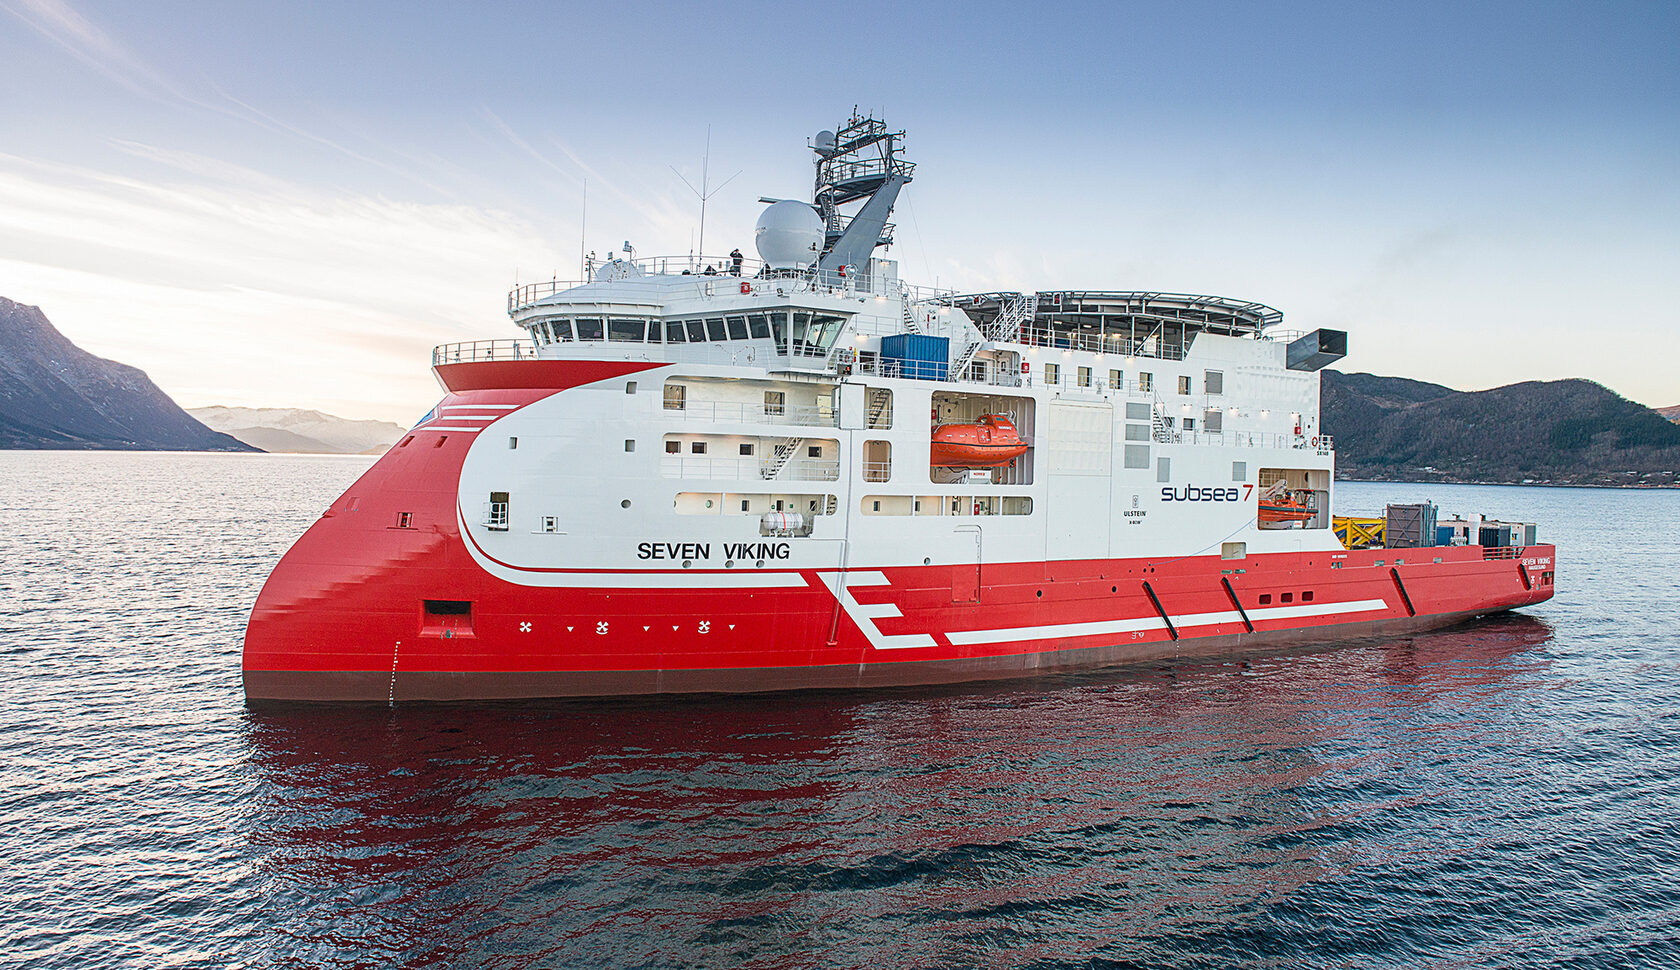
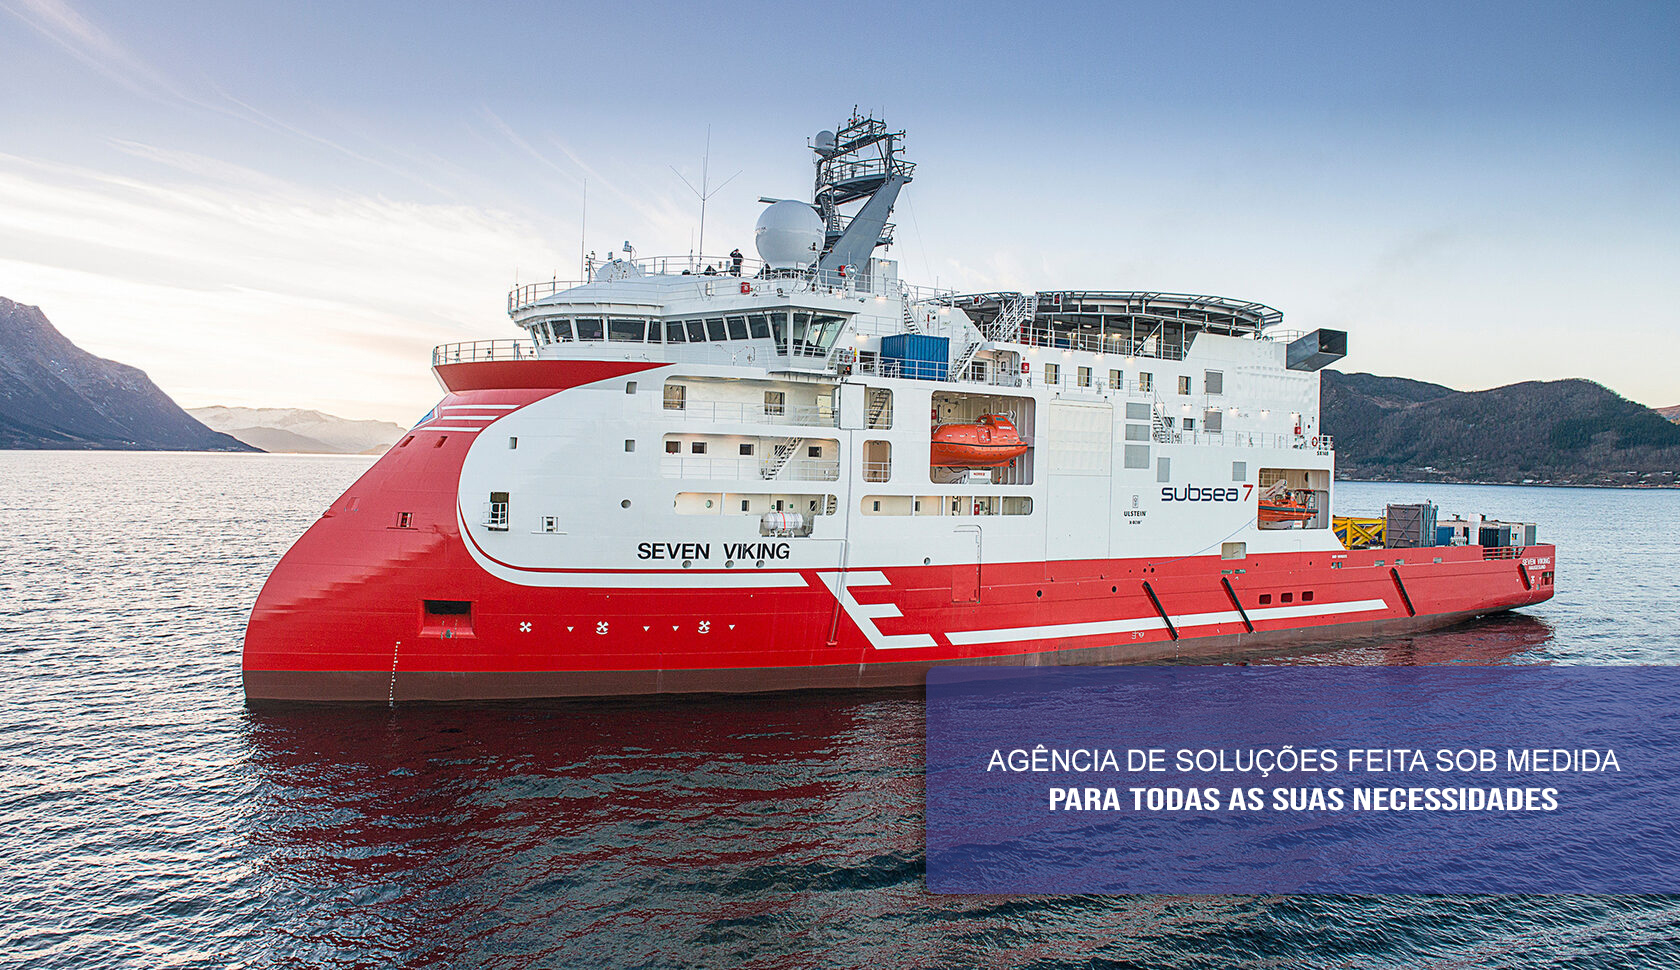
Adicionando Icone Site

Changed region(s): [[0.5262, 0.6804, 1.0, 0.9278]]

diff --git a/style.css b/style.css
@@ -58,20 +58,6 @@ body{
 
 }
 
-.Frase{
-    display: flex;
-    color: white;
-    width: 600px;
-    height: 170px;
-    justify-content: center;
-    align-items: center;
-    opacity: 0.65;
-    position: absolute;
-    right: 0px;
-    bottom: -73px;
-    background-color: #343E8B;
-}
-
 .foto1 img{
     margin-bottom: -4px;
     width: 100%;
@@ -561,9 +547,6 @@ body{
 }
 
 
-
-
-
 @media screen and (max-width: 1000px){
     .Menu{
         justify-content: center;
@@ -572,12 +555,6 @@ body{
 
     .paginas{
         gap: 30px;
-    }
-
-    .Frase{
-        width: 400px;
-        height: 100px;
-        bottom: 130px;
     }
 
     .foto1 img{
@@ -747,9 +724,6 @@ body{
     }
 }
 
-
-
-
 @media screen and (max-width:700px){
     .Topo{
         height: 50px;
@@ -771,17 +745,6 @@ body{
     .paginas a{
         font-size: 18px;
         text-align: center;
-    }
-
-    .Frase{
-        width: 200px;
-        height: 80px;
-        bottom: 230px;
-        text-align: center;
-    }
-
-    .Frase p{
-        font-size: 12px;
     }
 
     .NServicos{
@@ -1018,7 +981,6 @@ body{
 
 }
 
-
 @media screen and (max-width:500px){
     .Topo{
         height: 50px;
@@ -1042,17 +1004,6 @@ body{
         text-align: center;
     }
 
-    .Frase{
-        width: 120px;
-        height: 80px;
-        bottom: 380px;
-        text-align: center;
-    }
-
-    .Frase p{
-        font-size: 10px;
-    }
-
     .NServicos{
         height: 120px;
     }
@@ -1071,18 +1022,24 @@ body{
     }
 
     .Ser1{
+        justify-content: center;
+        gap: 20px;
         width: 100%;
         height: 180px;
         margin: 10px auto;
     }
 
     .Ser2{
+        justify-content: center;
+        gap: 20px;
         width: 100%;
         height: 180px;
         margin: 10px auto;
     }
 
     .Ser3{
+        justify-content: center;
+        gap: 20px;
         width: 100%;
         height: 180px;
         margin: 10px auto;
@@ -1092,7 +1049,7 @@ body{
         width: 100%;
         height: 180px;
         margin: 10px auto;
-        gap: 10px;
+        gap: 20px;
     }
 
     .BlocoS{
@@ -1112,7 +1069,7 @@ body{
     }
 
     .Img-Ser{
-        width: 70px;
+        width: 80px;
     }
 
     .Img-Ser img{
@@ -1120,14 +1077,15 @@ body{
     }
 
     .Servicos_Nomes{
+        align-content: center;
         margin-top: 0px;
-        padding-top: 0;
-        width: 70px;
+        padding: 0;
+        width: 80px;
         height: 120px;
     }
 
-        .Sobre{
-            height: 230px;
+    .Sobre{
+        height: 230px;
     }
 
     .S2{

diff --git a/index.html b/index.html
@@ -9,6 +9,7 @@
         <link rel="preconnect" href="https://fonts.googleapis.com">
         <link rel="preconnect" href="https://fonts.gstatic.com" crossorigin>
         <link href="https://fonts.googleapis.com/css2?family=Inconsolata&family=Inder&display=swap" rel="stylesheet">
+        <link rel="icon" href="./Assets/Icone.png">
     </head>
 
     <body>
@@ -29,9 +30,6 @@
         <main>
             <a name="Home"></a>
             <div class="Imagem_destaque">                
-                <div class="Frase">
-                    <p>AGÊNCIA DE SOLUÇÕES FEITA SOB MEDIDA<br><strong>PARA TODAS AS SUAS NECESSIDADES</strong></p>
-                </div>
                 <div class="foto1">
                     <img src="./Assets/Foto 1.jpg" alt="Imagem do Navio Seven Vikings, um navio Norueguês de Suprimento Offshore, As cores dele são branco e vermelho, com um heliponto encima, com o fundo das aguas do norte">
                 </div>                
